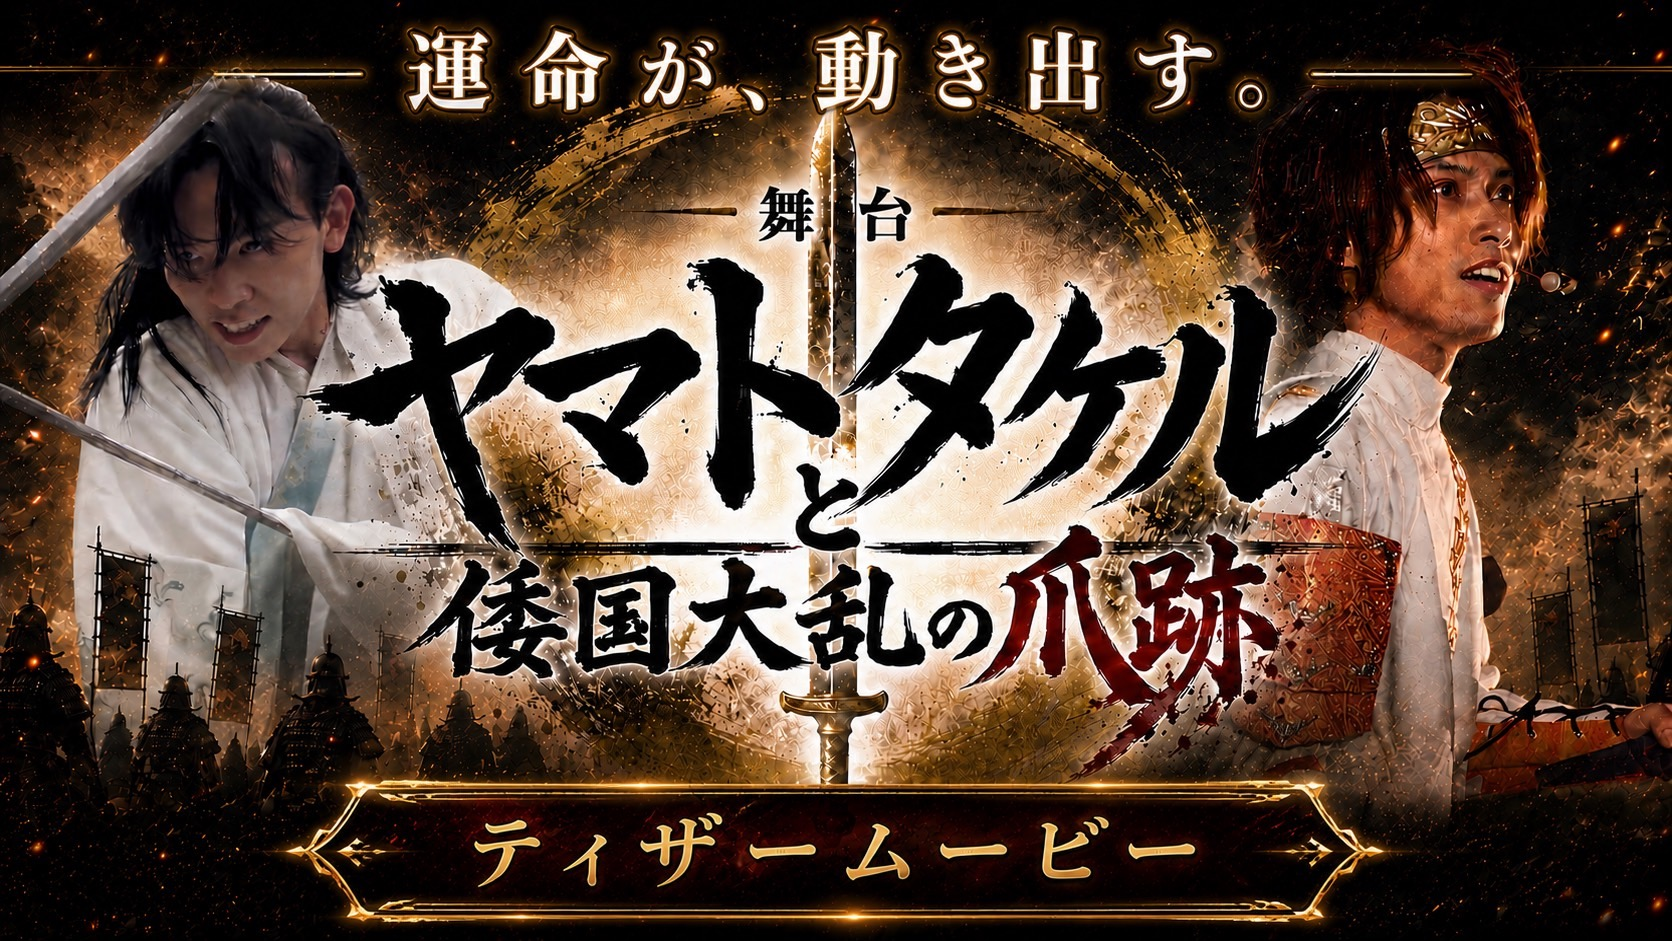
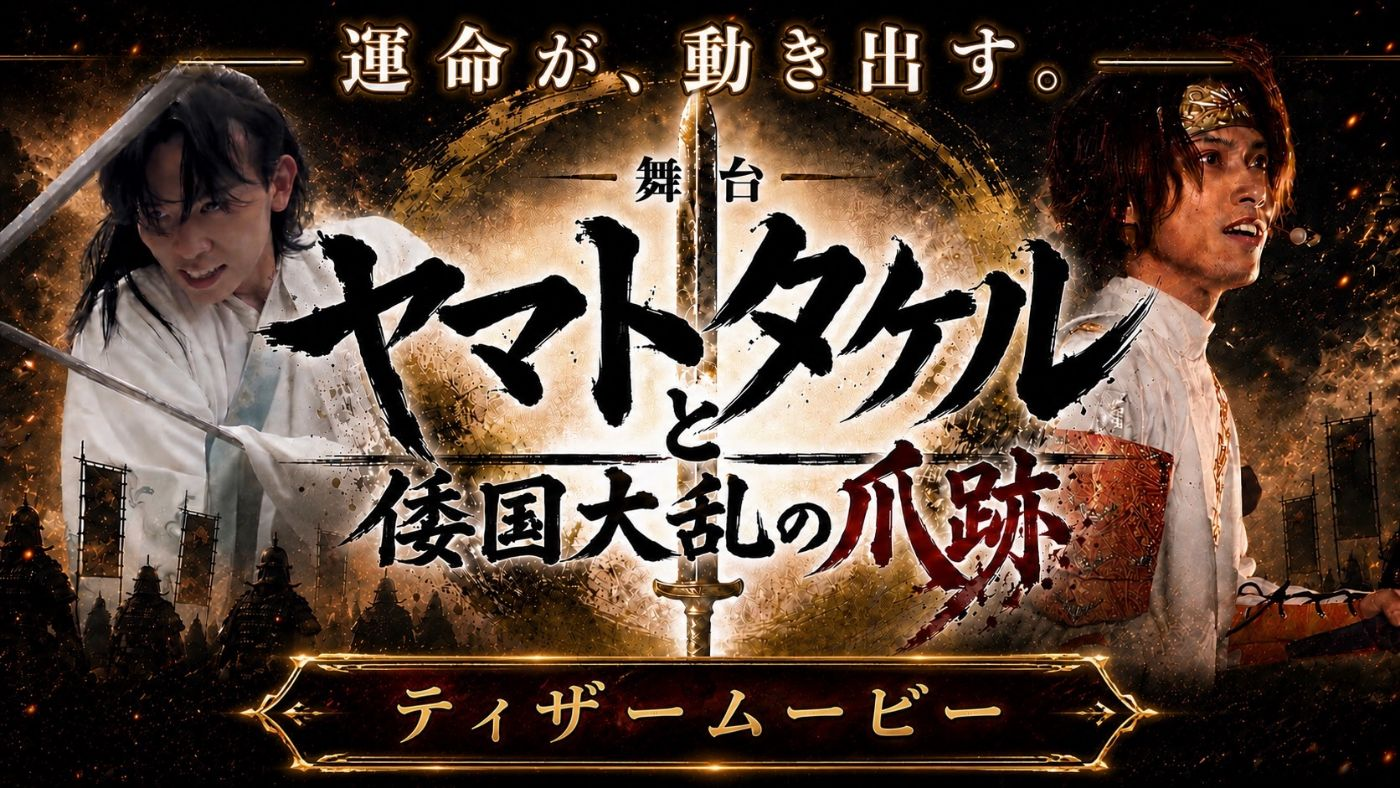
Release brush-up: image weight fix, frame-in-frame removal, tighter rhythm
Images (root cause of missing images on /test/ = incomplete server upload;
local files were always valid - this commit removes the upload risk):
- Re-encoded oversized photos: advertising-slide-01 4.2MB->314KB,
  advertising-slide-02 3.0MB->134KB, instructor-banner 1.2MB->251KB,
  producer-portrait 950KB->189KB, movie-teaser 562KB->251KB,
  movie-kodan 505KB->191KB
- top-photo-pc.png (2.2MB PNG photo) replaced by top-photo-pc.jpg (286KB);
  HTML src updated, original kept

Frame-in-frame removal:
- 3 support steps: navy text pill inside the white card removed - number,
  icon, heading and plain body only
- Five perspectives: outer white panel removed (was card-in-card), rows
  compacted (48px icons, tighter padding/gaps)
- Business body copy: bordered inner box removed - plain type on the navy
  panel
- Movie block wrapper frame removed; photo captions and subsidy photo
  lose their borders; representative navy panel loses its border

Icons:
- Voice cards: person-icon-mask PNG replaced with brand-consistent inline
  stroke SVGs on gold circles (management / leader / executive variants)

Rhythm & density:
- Section padding 110->96px (SP 62->58px), stack gap 42->38px,
  business list gap 64px (SP 48px), stat cards and company card compacted
- SP step cards: icon left, heading and body aligned in one column

Verified 1440-360: no broken images, no horizontal scroll, zero heading
gaps, accordions OK, banned wording absent.
[…]

diff --git a/assets/css/style.css b/assets/css/style.css
@@ -6529,3 +6529,313 @@ h4,
     max-width: none;
   }
 }
+
+/* ==========================================================================
+   Release polish: remove frame-in-frame styling, tighten rhythm, unify icons
+   ========================================================================== */
+
+/* --- Global rhythm: tighter, intentional spacing --- */
+.section {
+  padding: 96px 0;
+}
+
+.results-section {
+  padding: 104px 0;
+}
+
+.company-intro-section {
+  padding: 96px 0;
+}
+
+.section-stack {
+  gap: 38px;
+}
+
+.business-detail-list {
+  gap: 64px;
+}
+
+/* --- 3 support steps: no navy pill inside the white card --- */
+.solution-process {
+  gap: 18px;
+}
+
+.solution-process article {
+  grid-template-columns: 96px minmax(0, 1fr) auto;
+  gap: 6px 28px;
+  min-height: 0;
+  padding: 30px 42px;
+  box-shadow: 0 10px 26px rgba(15, 46, 68, 0.07);
+}
+
+.solution-process .line-icon {
+  width: 76px;
+  height: 76px;
+  padding: 17px;
+  box-shadow: none;
+}
+
+.solution-process h4 {
+  align-self: center;
+  font-size: clamp(1.5rem, 2.4vw, 2.1rem);
+}
+
+.solution-process p {
+  max-width: 720px;
+  padding: 0;
+  color: var(--muted);
+  font-weight: 500;
+  background: none;
+  border-radius: 0;
+}
+
+.solution-process span {
+  color: rgba(15, 46, 68, 0.1);
+  font-size: clamp(4rem, 6.4vw, 6rem);
+}
+
+/* --- Five perspectives: drop the outer panel (card-in-card), compact rows --- */
+.growth-panel {
+  max-width: 880px;
+  padding: 0;
+  background: transparent;
+  border: 0;
+  border-radius: 0;
+  box-shadow: none;
+}
+
+.growth-panel h3 {
+  font-size: clamp(1.8rem, 3.1vw, 2.5rem);
+}
+
+.growth-panel > div > p:not(.section-label) {
+  font-size: clamp(0.95rem, 1.15vw, 1.05rem);
+}
+
+.growth-panel ul {
+  margin-top: 26px;
+  gap: 12px;
+}
+
+.growth-panel li {
+  min-height: 0;
+  grid-template-columns: 52px minmax(0, 1fr);
+  gap: 2px 18px;
+  padding: 16px 22px;
+  border-color: rgba(199, 162, 106, 0.24);
+  box-shadow: 0 6px 18px rgba(15, 46, 68, 0.05);
+}
+
+.growth-panel li .line-icon {
+  width: 48px;
+  height: 48px;
+  padding: 11px;
+}
+
+.growth-panel li span {
+  font-size: clamp(1.1rem, 1.5vw, 1.3rem);
+  font-weight: 800;
+}
+
+.growth-panel li small {
+  font-size: 0.95rem;
+  font-weight: 500;
+}
+
+/* --- Representative message panel: contrast instead of border --- */
+.truth-panel {
+  padding: 40px 42px;
+  border: 0;
+}
+
+/* --- Numbers section: the figure stays the hero, the card slims down --- */
+.stat-card {
+  padding: 38px 36px 36px;
+}
+
+.stat-card strong {
+  margin-top: 12px;
+  font-size: clamp(4rem, 6.2vw, 5.4rem);
+}
+
+/* --- Business sections: plain body copy on the dark panel (no inner box) --- */
+.business-detail .business-teaser-box {
+  width: min(100%, 620px);
+  padding: 0;
+  background: transparent;
+  border: 0;
+  border-radius: 0;
+}
+
+.business-detail .business-teaser-box p {
+  color: rgba(255, 255, 255, 0.88);
+  font-size: clamp(0.98rem, 1.15vw, 1.05rem);
+  line-height: 2;
+}
+
+/* --- Movie block: heading + cards, no wrapper frame --- */
+.business-detail .movie-block {
+  padding: 0;
+  background: transparent;
+  border: 0;
+  box-shadow: none;
+}
+
+/* --- Photo captions: quiet, no border --- */
+.entertainment-photo-grid figcaption,
+.education-photo figcaption {
+  padding: 7px 12px;
+  font-size: 0.8rem;
+  font-weight: 600;
+  background: rgba(6, 22, 34, 0.72);
+  border: 0;
+}
+
+.education-photo figcaption {
+  right: 14px;
+  bottom: 14px;
+  left: 14px;
+  font-size: 0.88rem;
+}
+
+/* --- Subsidy: the photo needs no frame --- */
+.subsidy-photo {
+  border: 0;
+}
+
+/* --- Voice cards: crisp stroke icons in brand gold (replaces the mask) --- */
+.voice-icon {
+  display: block;
+  width: 60px;
+  height: 60px;
+  margin: 0 0 16px;
+  padding: 13px;
+  color: var(--base);
+  background: linear-gradient(180deg, #d4b379, #b8945a);
+  border-radius: 50%;
+  fill: none;
+  stroke: currentColor;
+  stroke-width: 2.4;
+  stroke-linecap: round;
+  stroke-linejoin: round;
+  -webkit-mask: none;
+  mask: none;
+}
+
+.voice-card {
+  padding: 30px 28px;
+}
+
+/* --- Company intro: same premium look, higher density --- */
+.company-intro-card {
+  gap: 28px;
+  padding: clamp(36px, 4.4vw, 56px);
+}
+
+.company-intro-values li {
+  min-height: 140px;
+  padding: 24px 20px;
+}
+
+@media (max-width: 760px) {
+  .section {
+    padding: 58px 0;
+  }
+
+  .results-section {
+    padding: 64px 0;
+  }
+
+  .company-intro-section {
+    padding: 58px 0;
+  }
+
+  .section-stack {
+    gap: 26px;
+  }
+
+  .solution-process article {
+    grid-template-columns: 56px minmax(0, 1fr);
+    gap: 4px 14px;
+    padding: 18px 16px;
+  }
+
+  .solution-process .line-icon {
+    grid-row: 1 / span 2;
+    width: 48px;
+    height: 48px;
+    padding: 11px;
+  }
+
+  .solution-process span {
+    display: none;
+  }
+
+  .solution-process h4 {
+    grid-column: 2;
+    grid-row: 1;
+    align-self: center;
+    font-size: 1.25rem;
+    text-align: left !important;
+  }
+
+  .solution-process p {
+    grid-column: 2;
+    font-size: 0.92rem;
+  }
+
+  .growth-panel ul {
+    margin-top: 18px;
+    gap: 10px;
+  }
+
+  .growth-panel li {
+    grid-template-columns: 46px minmax(0, 1fr);
+    gap: 2px 14px;
+    padding: 14px 16px;
+  }
+
+  .growth-panel li .line-icon {
+    width: 42px;
+    height: 42px;
+    padding: 10px;
+  }
+
+  .growth-panel li span {
+    font-size: 1.08rem;
+  }
+
+  .growth-panel li small {
+    font-size: 0.88rem;
+  }
+
+  .truth-panel {
+    padding: 28px 20px;
+  }
+
+  .stat-card {
+    padding: 26px 22px 24px;
+  }
+
+  .voice-icon {
+    grid-row: 1 / span 3;
+    width: 48px;
+    height: 48px;
+    margin: 0;
+    padding: 10px;
+  }
+
+  .business-detail-list {
+    gap: 48px;
+  }
+
+  .company-intro-card {
+    gap: 20px;
+    padding: 30px 20px;
+  }
+
+  .company-intro-values li {
+    min-height: 0;
+    padding: 16px;
+  }
+}

diff --git a/index.html b/index.html
@@ -480,19 +480,19 @@
 
         <div class="voice-grid" aria-label="導入後に期待できる変化">
           <article class="voice-card reveal">
-            <span class="voice-icon voice-icon-management" aria-hidden="true"></span>
+            <svg class="voice-icon" viewBox="0 0 48 48" aria-hidden="true"><circle cx="24" cy="16.5" r="6.5"/><path d="M11 38c2.4-7.6 23.6-7.6 26 0"/><path d="M33.5 9.5h7"/><path d="M37 6v7"/></svg>
             <span>管理職</span>
             <p><strong>指示型から、成長を引き出す関わりへ。</strong>部下の考えを引き出し、振り返りの質を高める関わり方を磨きます。</p>
             <p>現場での声かけや判断基準が整理され、チームを育てる視点が生まれます。</p>
           </article>
           <article class="voice-card reveal">
-            <span class="voice-icon voice-icon-leader" aria-hidden="true"></span>
+            <svg class="voice-icon" viewBox="0 0 48 48" aria-hidden="true"><circle cx="24" cy="16.5" r="6.5"/><path d="M11 38c2.4-7.6 23.6-7.6 26 0"/><path d="m33 12 7-7"/><path d="M34.5 5H40v5.5"/></svg>
             <span>幹部候補</span>
             <p><strong>作業者視点から、組織を動かす視点へ。</strong>自分の役割を捉え直し、判断基準と行動の優先順位を明確にします。</p>
             <p>次世代リーダーとして、現場を見る力と任される覚悟を育てます。</p>
           </article>
           <article class="voice-card reveal">
-            <span class="voice-icon voice-icon-executive" aria-hidden="true"></span>
+            <svg class="voice-icon" viewBox="0 0 48 48" aria-hidden="true"><circle cx="24" cy="16.5" r="6.5"/><path d="M11 38c2.4-7.6 23.6-7.6 26 0"/><path d="M33 11h8"/><path d="M33 6.5h5"/></svg>
             <span>経営者</span>
             <p><strong>単発研修から、会社の文化を育てる教育へ。</strong>社員教育を経営課題として捉え、自社に合う設計へつなげます。</p>
             <p>会社の未来を支える人財育成の方針が、より明確になります。</p>
@@ -655,7 +655,7 @@
             </details>
 
             <figure class="business-slideshow entertainment-slideshow business-main-visual" aria-label="芸能プロダクション事業の舞台・制作ビジュアル">
-              <img src="./assets/img/top-photo-pc.png" alt="ヤマトタケルと倭国大乱の爪跡の舞台ビジュアル">
+              <img src="./assets/img/top-photo-pc.jpg" alt="ヤマトタケルと倭国大乱の爪跡の舞台ビジュアル">
               <img src="./assets/img/stage-group.jpg" alt="劇団 天-TEN-の出演者集合写真">
             </figure>
 
